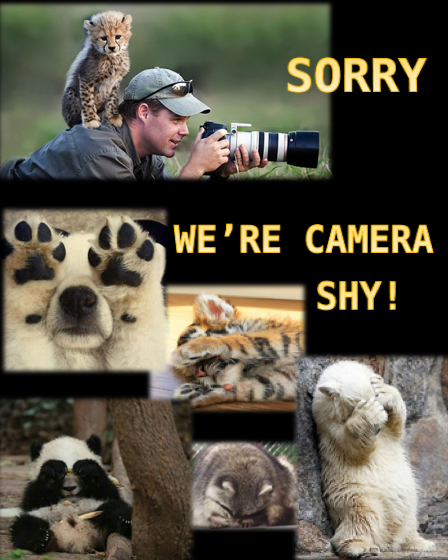
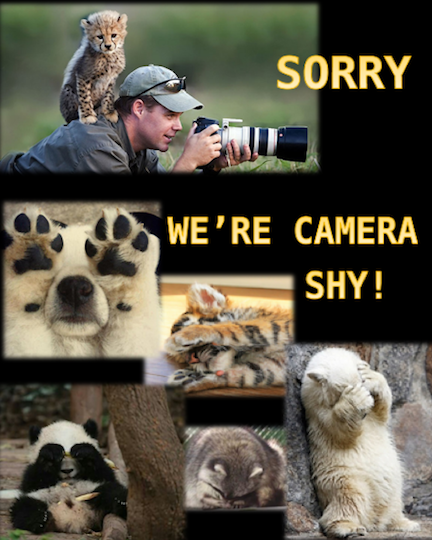
added weblinks to Citations

diff --git a/index.js b/index.js
@@ -1,8 +1,12 @@
 const citeBits = {
-	GBIFCite: 'GBIF:  The Global Biodiversity Information Facility (2018) What is GBIF?. Available from: https://www.gbif.org/what-is-gbif (3rd November 2016)',
-	RedListCite: 'Red List:  IUCN 2017. IUCN Red List of Threatened Species. Version 2017-3 http://www.iucnredlist.org',
-	GettyCite: 'All photo are courtesy of:  Getty Images, copyright © 2017. All rights reserved',
-	BackCite: "Animal mural background courtesy of Disney's Animal Kingdom, Rafiki's Planet Watch"
+	GBIFCite: 'GBIF:  The Global Biodiversity Information Facility (2018) What is GBIF?. Available from: ',
+	GBIFWeb: 'https://www.gbif.org/what-is-gbif',
+	RedListCite: 'Red List:  IUCN 2017. IUCN Red List of Threatened Species. Version 2017-3 ',
+	RedListWeb: 'http://www.iucnredlist.org',
+	GettyCite: 'All photo are courtesy of:  Getty Images, copyright © 2017. All rights reserved ',
+	GettyWeb: 'http://developers.gettyimages.com/en/',
+	BackCite: "Animal mural background courtesy of Disney's Animal Kingdom, Rafiki's Planet Watch ",
+	BackWeb: 'https://disneyworld.disney.go.com/attractions/animal-kingdom/conservation-station/'
 };
 const GBIF_API_URL = 'http://api.gbif.org/v1/species/search';
 const Getty_API_URL = 'https://api.gettyimages.com/v3/search/images';
@@ -259,10 +263,10 @@ function generateCiteStrings(item) {
 	return `
 			<div class="cite-area">
 				<h4 class="js-cite-title">Citations:</h4>
-				<p class="cite-text cite1">${item.GBIFCite}</p>
-				<p class="cite-text cite2">${item.RedListCite}</p>
-				<p class="cite-text cite3">${item.GettyCite}</p>
-				<p class="cite-text cite4">${item.BackCite}</p>
+				<p class="cite-text cite1">${item.GBIFCite}<a href=${item.GBIFWeb} class="cite-web" target="_blank">${item.GBIFWeb}</a></p>
+				<p class="cite-text cite2">${item.RedListCite}<a href=${item.RedListWeb} class="cite-web" target="_blank">${item.RedListWeb}</a></p>
+				<p class="cite-text cite3">${item.GettyCite}<a href=${item.GettyWeb} class="cite-web" target="_blank">${item.GettyWeb}</a></p>
+				<p class="cite-text cite4">${item.BackCite}<a href=${item.BackWeb} class="cite-web" target="_blank">${item.BackWeb}</a></p>
 			</div>
 	`;
 }

diff --git a/main.css b/main.css
@@ -136,6 +136,7 @@ h2 {
 }
 
 .js-pic {
+	max-width: 60%;
 	float: right;
 	box-shadow: 4px 2px 6px #1f1f1f,
 							10px 7px 3px #000000;
@@ -143,13 +144,13 @@ h2 {
 									 10px 7px 3px #000000;
 	-webkit-box-shadow: 4px 2px 6px #1f1f1f,
 										  10px 7px 3px #000000;
-	margin: 50px 0 20px 30px;
+	margin: 60px 70px 30px 30px;
 }
 
 .js-title {
 	width: 170px;
 	border-bottom: 4px solid red;
-	padding-bottom: 3px;
+	padding-bottom: 4px;
 }
 
 .js-text {
@@ -172,8 +173,8 @@ h2 {
 }
 
 .badge {
-	width: 172px;
-	height: 172px;
+	width: 140px;
+	height: 140px;
 	border: hidden;
 	border-radius: 50%;
 	-moz-border-radius: 50%;
@@ -184,22 +185,7 @@ h2 {
 									6px 6px 5px -1px #000000;
 	-webkit-box-shadow: 2px 2px 2px 3px #1f1f1f,
 										 6px 6px 5px -1px #000000;
-}
-
-.cite-area {
-	width: 70%;
-	font-size: 12px;
-	font-style: italic;
-	font-weight: 300;
-	text-shadow: 2px 2px 3px #1f1f1f,
-							 2px 2px 4px #000000;
-	border-top: 1px double #770000;
-	margin: 60px auto 40px auto;
-	padding-top: 20px;
-}
-
-fieldset {
-	display: none;
+	margin-left: 15px;
 }
 
 a {
@@ -214,4 +200,31 @@ a:focus {
 	color: #ff0000;
 } 
 
- 
+.cite-area {
+	width: 75%;
+	font-size: 12px;
+	font-style: italic;
+	font-weight: 300;
+	text-shadow: 2px 2px 3px #1f1f1f,
+							 2px 2px 4px #000000;
+	border-top: 1px double #770000;
+	margin: 60px auto 40px auto;
+	padding: 20px 10px 20px 30px;
+}
+
+fieldset {
+	display: none;
+}
+
+.cite-web {
+	font-size: 12px;
+	font-style: italic;
+	font-weight: 300;
+	text-shadow: 2px 2px 3px #1f1f1f,
+							 2px 2px 4px #000000;
+	margin-left: 5px;
+}
+
+
+
+
